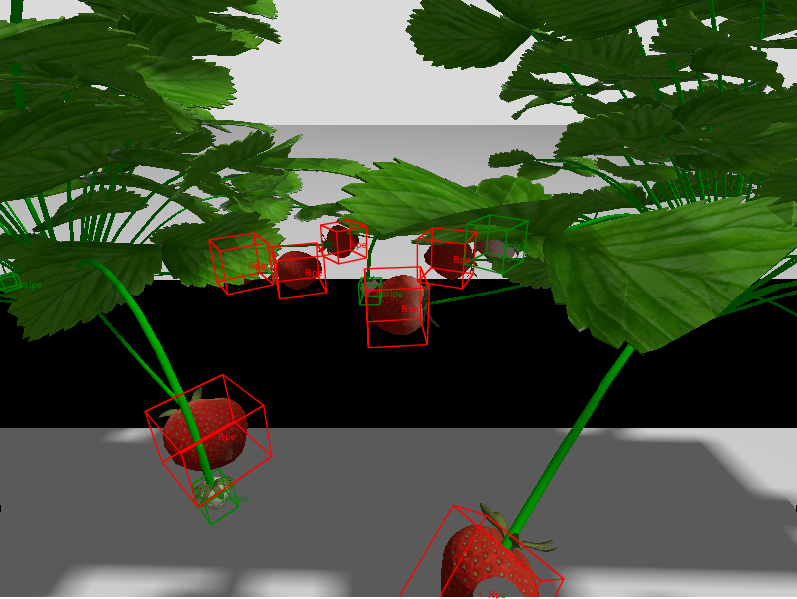
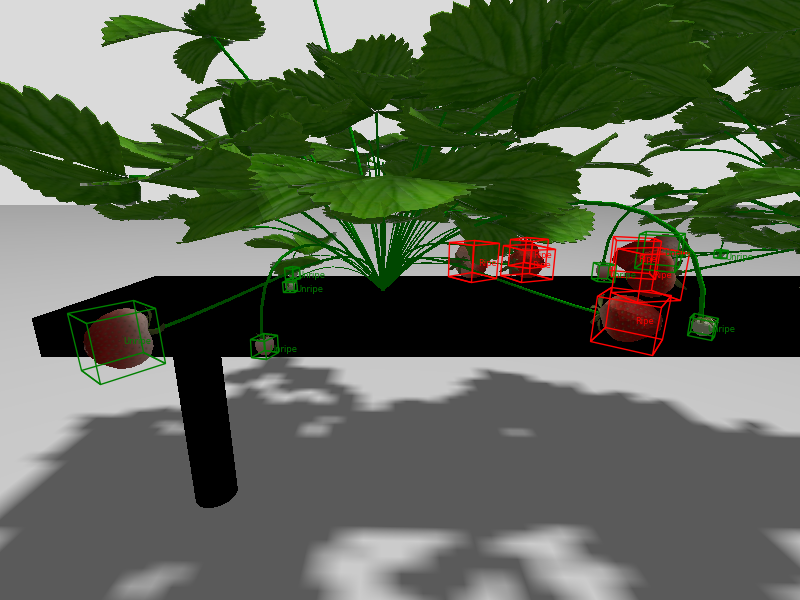
updated README.md with pictures

diff --git a/README.md b/README.md
@@ -3,10 +3,15 @@
 ## About The Project
 
 ![demo GIF](data_generation.gif)
-This repository is a synthetic dataset for 6DoF pose and 3D size estimation of strawberries
+
+This repository provides a synthetic dataset for 6DoF pose and 3D size estimation of strawberries. It was generated in Ignition Gazebo simulator: (a) Each generated strawberry is random, encompassing variations in plant shape, the distribution of strawberries on the plant, and the size, ripeness, and pose of the strawberries. (b) For each batch of strawberries, different lighting conditions are set to mimic natural lighting variations. (c) The camera randomly selects angles from a reasonable range to capture images. (d) For a given camera angle, the distance between the camera and the strawberries is also adjusted.
+
+The final dataset, named Straw6D, includes RGB images, depth images, 3D bounding box annotations, strawberry instance segmentation masks and point clouds.
 
 ## Usage
 
-### View the datast
+## View the Straw6D dataset
 
 python3 visual_datast.py
+
+![demo PNG](figure.png)
